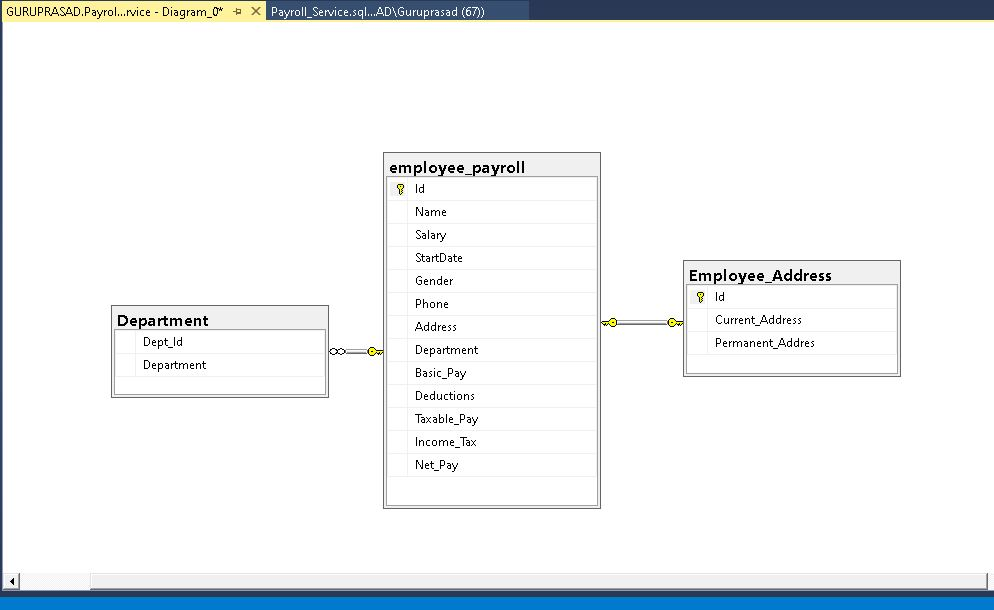
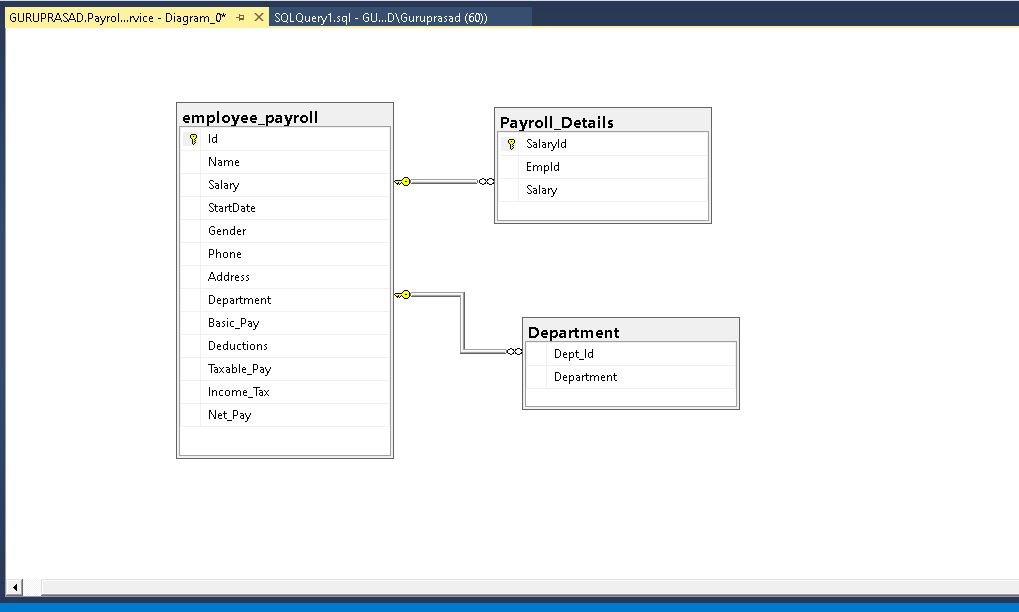
[Guru] Method to add details to multiple tables -UC8

diff --git a/ADO.NetEmployeePayroll/EmpRepository.cs b/ADO.NetEmployeePayroll/EmpRepository.cs
@@ -84,7 +84,7 @@ namespace ADO.NetEmployeePayroll
             }
         }
 
-        //UC7 Method To Add Employee details    
+        //UC7- Method To Add Employee details    
         public void AddEmployee(EmployeeModel obj)
         {
             try
@@ -199,5 +199,41 @@ namespace ADO.NetEmployeePayroll
             }
         }
 
+        //UC8 - Insert details Into Two Tables
+        public void InsertIntoTwoTables(EmployeeModel obj)
+        {
+            try
+            {
+                connection = new SqlConnection(connectionstring);
+                connection.Open();
+                SqlCommand command = new SqlCommand("spInsertIntoTwoTables", connection)
+                {
+                    CommandType = CommandType.StoredProcedure
+                };
+                command.Parameters.AddWithValue("@Name", obj.Name);
+                command.Parameters.AddWithValue("@Gender", obj.Gender);
+                command.Parameters.AddWithValue("@Address", obj.Address);
+                command.Parameters.Add("Id", SqlDbType.Int).Direction = ParameterDirection.Output;
+                var result = command.ExecuteScalar();
+                string id = command.Parameters["Id"].Value.ToString();
+                int newId = Convert.ToInt32(id);
+
+                string query = $"Insert into Payroll_Details(EmpId, Salary) values({newId},7894)";
+                SqlCommand cmd = new SqlCommand(query, connection);
+                int res = cmd.ExecuteNonQuery();
+                if (res != 0)
+                {
+                    Console.WriteLine("Inserted into salary table successfully");
+                }
+                else
+                {
+                    Console.WriteLine("Failed to insert into salary table");
+                }
+            }
+            catch(Exception ex)
+            {
+                Console.WriteLine(ex.Message);
+            }
+        }
     }
 }

diff --git a/ADO.NetEmployeePayroll/Program.cs b/ADO.NetEmployeePayroll/Program.cs
@@ -19,7 +19,7 @@ namespace ADO.NetEmployeePayroll
                 try
                 {
                     Console.WriteLine("\nEnter the Program number to get executed \n0.Exit \n1.Get All employees \n2.Add Data to Table \n3.Update Employee \n4.Delete Employee" +
-                                      "\n5.Retrieve employees joined in a particular date range \n6.Find Sum, Average, min, max, count of salary by gender");
+                                      "\n5.Retrieve employees joined in a particular date range \n6.Find Sum, Average, min, max, count of salary by gender \n7.Insert into two tables");
                     int option = Convert.ToInt32(Console.ReadLine());
                     switch (option)
                     {
@@ -82,6 +82,10 @@ namespace ADO.NetEmployeePayroll
                             empRepository.GetAllEmployeesWithDataAdapter(maxquery);
                             empRepository.GetAllEmployeesWithDataAdapter(minquery);
                             empRepository.GetAllEmployeesWithDataAdapter(countquery);
+                            break;
+                        case 7:
+                            EmployeeModel model2 = new EmployeeModel() { Name="AAA", Gender='M', Address="Blr" };
+                            empRepository.InsertIntoTwoTables(model2);
                             break;
                         default:
                             Console.WriteLine("Please Enter Correct option");
